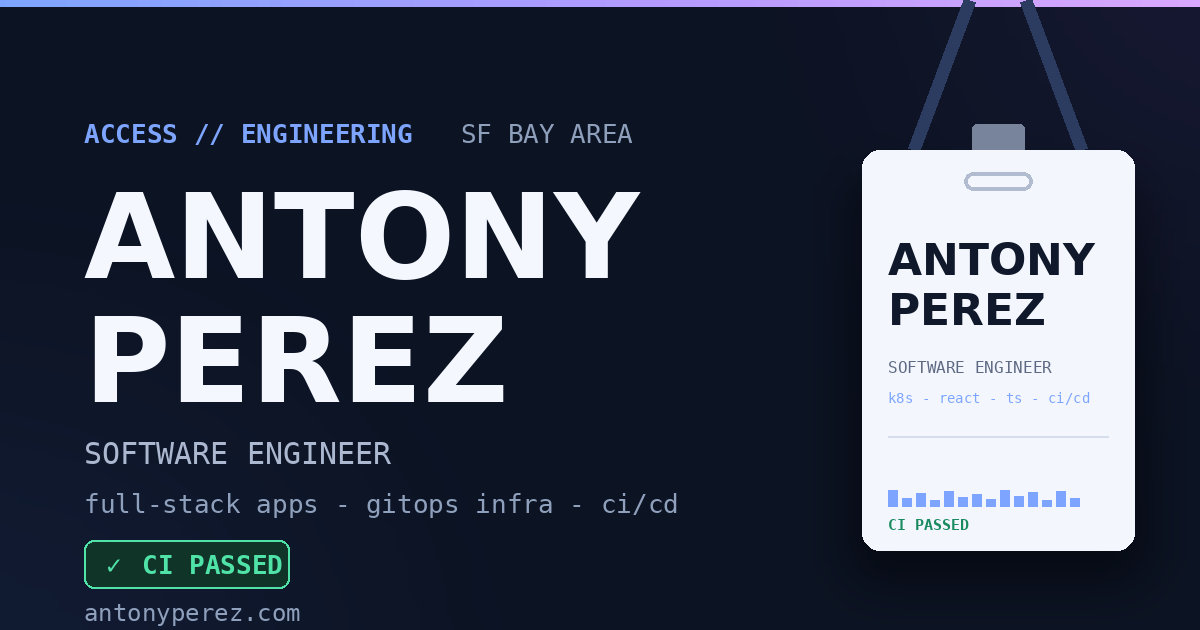
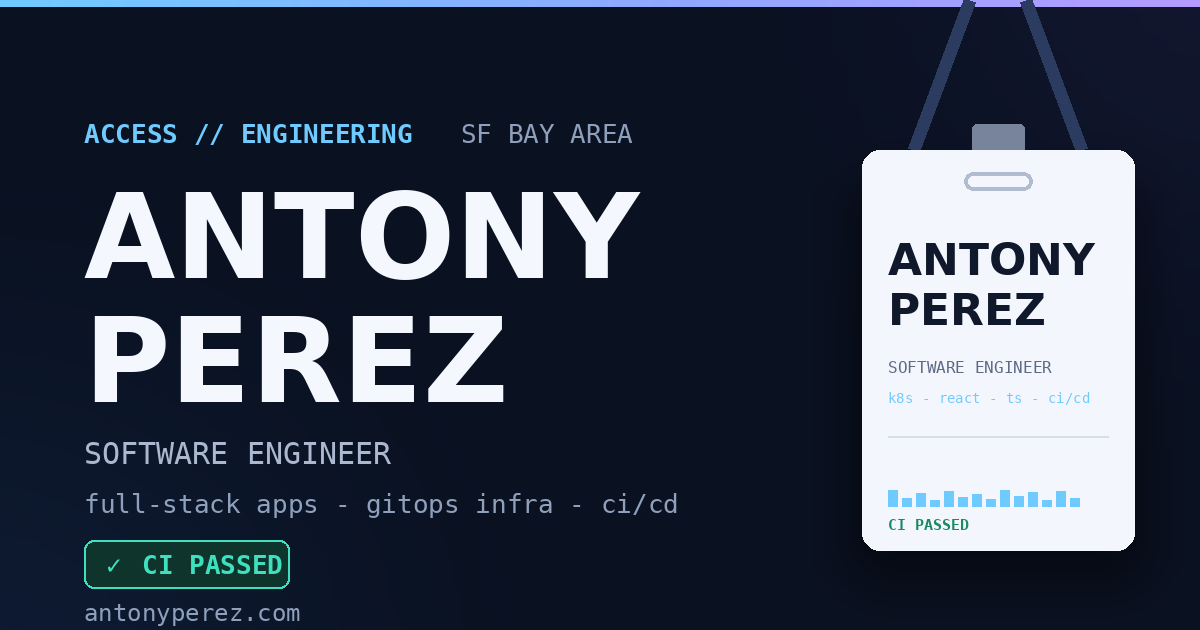
Frost palette: main site retinted to Frozen Throne colors
Shift the modern site from periwinkle-blue to the WC3 frost/arcane
palette so it visibly belongs to the easter egg:

- bg #0C1322 -> #0A1120 (colder indigo night), panels -> #111B33
- --blue -> frost #8FD0FF, --green -> mana teal #3FE0C0
- gradient -> cyan-to-arcane (#6FCBFF -> #8FA8FF -> #B49AFF)
- selection, buttons, nav, terminal, palette, orbs, dot grids,
  scrollbar, code chips, copy-toast, timewarp hover retinted
- 404 page + favicon + regenerated og-image.png carry the new palette
- all pairs contrast-checked (7.1:1 - 11.3:1 body/muted/faint)

Verified: 0 axe violations across 5 states, 14/14 + 14/14 scripted
checks, clean build.

diff --git a/index.html b/index.html
@@ -4,7 +4,7 @@
 <meta charset="UTF-8" />
 <meta name="viewport" content="width=device-width, initial-scale=1.0" />
 <link rel="icon" type="image/svg+xml" href="/favicon.svg" />
-<meta name="theme-color" content="#0C1322" />
+<meta name="theme-color" content="#0A1120" />
 <script>document.documentElement.classList.add('js')</script>
 <title>Antony Perez - Software Engineer</title>
 <meta name="description" content="Antony Perez is a software engineer in the SF Bay Area building full-stack applications and the GitOps infrastructure they ship on - Kubernetes, CI/CD, React, TypeScript." />
@@ -66,8 +66,8 @@
    DESIGN TOKENS - modern theme
    ============================================================ */
 :root{
-  --bg:#0C1322;
-  --bg-2:#131C31;
+  --bg:#0A1120;
+  --bg-2:#111B33;
   --card:rgba(158,173,202,.075);
   --card-hover:rgba(158,173,202,.13);
   --line:rgba(158,173,202,.22);
@@ -75,11 +75,11 @@
   --text:#F4F7FE;
   --muted:#ABB8D0;
   --faint:#8FA0BC;
-  --blue:#7DA5FF;
+  --blue:#8FD0FF;
   --violet:#B49AFF;
-  --green:#4FE3A8;
+  --green:#3FE0C0;
   --green-dim:rgba(79,227,168,.14);
-  --grad:linear-gradient(120deg,#7DA5FF 0%,#B49AFF 55%,#D9A8FF 100%);
+  --grad:linear-gradient(120deg,#6FCBFF 0%,#8FA8FF 55%,#B49AFF 100%);
   --display:'Bricolage Grotesque',sans-serif;
   --body:'Inter',sans-serif;
   --mono:'JetBrains Mono',monospace;
@@ -102,12 +102,12 @@ body{
   -webkit-font-smoothing:antialiased;
   overflow-x:hidden;
 }
-::selection{background:#7DA5FF;color:#0C1322}
+::selection{background:#6FCBFF;color:#0A1120}
 a{color:var(--blue);text-decoration:none}
 a:focus-visible,button:focus-visible{outline:2px solid var(--blue);outline-offset:3px;border-radius:6px}
 .skip-link{
   position:fixed;top:-64px;left:16px;z-index:999;
-  background:var(--blue);color:#0C1322;font-weight:600;font-size:14px;
+  background:var(--blue);color:#0A1120;font-weight:600;font-size:14px;
   padding:12px 18px;border-radius:10px;transition:top .2s ease;
 }
 .skip-link:focus{top:12px}
@@ -131,7 +131,7 @@ img,svg{display:block;max-width:100%}
   width:min(var(--maxw),calc(100% - 32px));
   display:flex;align-items:center;justify-content:space-between;gap:16px;
   padding:10px 10px 10px 22px;
-  background:rgba(19,28,49,.78);
+  background:rgba(17,27,51,.8);
   border:1px solid var(--line);
   border-radius:999px;
   backdrop-filter:blur(16px);
@@ -146,7 +146,7 @@ img,svg{display:block;max-width:100%}
 }
 .nav-links a:hover{color:var(--text);background:rgba(255,255,255,.06)}
 .nav-cta{
-  font-size:13.5px;font-weight:600;color:#0C1322!important;
+  font-size:13.5px;font-weight:600;color:#0A1120!important;
   background:var(--text);padding:9px 18px!important;border-radius:999px!important;
   transition:background .15s!important;
 }
@@ -162,15 +162,15 @@ img,svg{display:block;max-width:100%}
 }
 .page-bg .dots{
   position:absolute;inset:0;
-  background-image:radial-gradient(rgba(158,173,202,.26) 1px,transparent 1px);
+  background-image:radial-gradient(rgba(168,190,224,.28) 1px,transparent 1px);
   background-size:34px 34px;
   background-position:0 0;
   -webkit-mask-image:linear-gradient(180deg,#000 0%,#000 52%,transparent 96%);
   mask-image:linear-gradient(180deg,#000 0%,#000 52%,transparent 96%);
 }
 .page-bg .orb{position:absolute;border-radius:50%;filter:blur(90px)}
-.page-bg .orb.a{width:560px;height:560px;background:rgba(125,165,255,.17);top:-180px;right:-120px}
-.page-bg .orb.b{width:420px;height:420px;background:rgba(180,154,255,.13);top:160px;left:-220px}
+.page-bg .orb.a{width:560px;height:560px;background:rgba(111,203,255,.16);top:-180px;right:-120px}
+.page-bg .orb.b{width:420px;height:420px;background:rgba(180,154,255,.15);top:160px;left:-220px}
 
 /* ============================================================
    HERO & 3D BADGE LAYOUT
@@ -232,7 +232,7 @@ img,svg{display:block;max-width:100%}
 }
 .badge-card::before{
   content:'';position:absolute;inset:0;opacity:.5;
-  background-image:radial-gradient(rgba(158,173,202,.20) 1px,transparent 1px);
+  background-image:radial-gradient(rgba(168,190,224,.22) 1px,transparent 1px);
   background-size:18px 18px;
 }
 .badge-card::after{
@@ -297,7 +297,7 @@ img,svg{display:block;max-width:100%}
 }
 .btn:hover{transform:translateY(-2px)}
 .btn-primary{
-  background:var(--grad);color:#0C1322!important;
+  background:var(--grad);color:#0A1120!important;
   box-shadow:0 8px 28px -8px rgba(110,120,255,.55);
 }
 .btn-primary:hover{box-shadow:0 14px 36px -8px rgba(110,120,255,.7)}
@@ -309,7 +309,7 @@ img,svg{display:block;max-width:100%}
 
 /* terminal card */
 .term{
-  background:linear-gradient(180deg,rgba(23,33,56,.92),rgba(15,22,40,.92));
+  background:linear-gradient(180deg,rgba(19,31,58,.92),rgba(13,21,42,.92));
   border:1px solid var(--line);
   border-radius:var(--r-lg);
   overflow:hidden;
@@ -436,7 +436,7 @@ section{padding:64px 0 0}
 .job::before{
   content:'';position:absolute;left:-42px;top:7px;width:20px;height:20px;border-radius:50%;
   background:var(--bg);border:2px solid var(--blue);
-  box-shadow:0 0 0 5px rgba(125,165,255,.14);
+  box-shadow:0 0 0 5px rgba(111,203,255,.14);
 }
 @media(max-width:560px){.job::before{left:-32px;width:16px;height:16px}}
 .job-head{display:flex;justify-content:space-between;gap:18px;flex-wrap:wrap;align-items:baseline}
@@ -599,8 +599,8 @@ footer{padding:40px 0 52px;text-align:center}
   transition:all .25s ease;
 }
 .timewarp:hover{
-  border-color:#7DA5FF;color:#BFE0FF;border-style:solid;
-  box-shadow:0 0 24px rgba(125,165,255,.4);
+  border-color:#6FCBFF;color:#BFE0FF;border-style:solid;
+  box-shadow:0 0 24px rgba(111,203,255,.4);
   transform:rotate(-1.2deg) scale(1.05);
 }
 
@@ -614,8 +614,8 @@ html.js .reveal:focus-within{opacity:1;transform:none}
 /* scrollbar */
 ::-webkit-scrollbar{width:11px}
 ::-webkit-scrollbar-track{background:var(--bg)}
-::-webkit-scrollbar-thumb{background:#243049;border-radius:6px;border:3px solid var(--bg)}
-::-webkit-scrollbar-thumb:hover{background:#31405F}
+::-webkit-scrollbar-thumb{background:#1E2C4A;border-radius:6px;border:3px solid var(--bg)}
+::-webkit-scrollbar-thumb:hover{background:#2C3D63}
 </style>
 <style>
 /* ============================================================
@@ -863,7 +863,7 @@ body.frozen .progress{display:none}
 .palette-panel{
   position:absolute;top:16vh;left:50%;transform:translateX(-50%);
   width:min(580px,calc(100% - 32px));
-  background:rgba(19,28,49,.97);
+  background:rgba(17,27,51,.97);
   border:1px solid var(--line-strong);border-radius:18px;
   box-shadow:0 40px 90px -30px rgba(0,0,0,.9);
   overflow:hidden;
@@ -888,7 +888,7 @@ body.frozen .progress{display:none}
 }
 .palette-list li .hint{margin-left:auto;font-family:var(--mono);font-size:11.5px;color:var(--faint)}
 .palette-list li.sel{background:rgba(125,165,255,.13);color:var(--text)}
-.palette-list li.sel .ic{border-color:rgba(125,165,255,.4)}
+.palette-list li.sel .ic{border-color:rgba(111,203,255,.4)}
 .palette-empty{padding:22px;text-align:center;font-family:var(--mono);font-size:13px;color:var(--faint)}
 .palette-foot{
   display:flex;gap:18px;justify-content:flex-end;
@@ -1459,7 +1459,7 @@ body.frozen .progress{display:none}
   /* ===== console greeting for the curious ===== */
   try {
     console.log('%c\u2388 antony.perez \u2014 documented \u00b7 tested \u00b7 deployed',
-      'font-family:monospace;font-size:13px;padding:6px 12px;background:#131C31;color:#4FE3A8;border:1px solid #2A3A5C;border-radius:8px');
+      'font-family:monospace;font-size:13px;padding:6px 12px;background:#111B33;color:#3FE0C0;border:1px solid #2A3A5C;border-radius:8px');
     console.log('Reading the source? Good instinct. Say hi: antonyperez0@yahoo.com \u00b7 github.com/AntonyPerez0');
   } catch (e) {}
 

diff --git a/public/404.html b/public/404.html
@@ -5,13 +5,13 @@
   <meta name="viewport" content="width=device-width, initial-scale=1.0" />
   <meta name="robots" content="noindex" />
   <link rel="icon" type="image/svg+xml" href="/favicon.svg" />
-  <meta name="theme-color" content="#0C1322" />
+  <meta name="theme-color" content="#0A1120" />
   <title>404 - Antony Perez</title>
   <link rel="preconnect" href="https://fonts.googleapis.com" />
   <link rel="preconnect" href="https://fonts.gstatic.com" crossorigin />
   <link href="https://fonts.googleapis.com/css2?family=Bricolage+Grotesque:opsz,wght@12..96,700&family=JetBrains+Mono:wght@400;600&display=swap" rel="stylesheet" />
   <style>
-    :root{--bg:#0C1322;--line:rgba(158,173,202,.22);--text:#F4F7FE;--muted:#ABB8D0;--faint:#8FA0BC;--blue:#7DA5FF;--green:#4FE3A8;--mono:'JetBrains Mono',monospace;--display:'Bricolage Grotesque',sans-serif}
+    :root{--bg:#0A1120;--line:rgba(158,173,202,.22);--text:#F4F7FE;--muted:#ABB8D0;--faint:#8FA0BC;--blue:#8FD0FF;--green:#3FE0C0;--mono:'JetBrains Mono',monospace;--display:'Bricolage Grotesque',sans-serif}
     *{margin:0;padding:0;box-sizing:border-box}
     body{background:var(--bg);color:var(--text);font-family:var(--mono);min-height:100vh;display:flex;align-items:center;justify-content:center;padding:24px}
     .term{width:100%;max-width:640px;border:1px solid var(--line);border-radius:14px;background:#131C31;overflow:hidden}
@@ -29,7 +29,7 @@
     .sub{color:var(--muted);font-size:14px;line-height:1.7}
     .cursor{color:var(--text);animation:blink 1.1s steps(1) infinite}
     @keyframes blink{50%{opacity:0}}
-    a.btn{display:inline-block;margin-top:22px;color:#0C1322;background:linear-gradient(120deg,#7DA5FF,#B49AFF);padding:11px 20px;border-radius:10px;text-decoration:none;font-weight:600;font-size:14px}
+    a.btn{display:inline-block;margin-top:22px;color:#0A1120;background:linear-gradient(120deg,#6FCBFF,#8FA8FF);padding:11px 20px;border-radius:10px;text-decoration:none;font-weight:600;font-size:14px}
     a.btn:hover{filter:brightness(1.1)}
     @media (prefers-reduced-motion: reduce){.cursor{animation:none}}
   </style>
